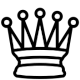
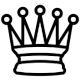
added in all pieces, bugfixed player movement, game now has pieces all making legal, basic moves. No en passant, castling at this time.

diff --git a/app.js b/app.js
@@ -1,11 +1,9 @@
-import {Knight, Pawn, Tile} from "./classes.js";
+import {King, Queen, Bishop, Rook, Knight, Pawn, Tile, legalMoves} from "./classes.js";
 
-/* use the index of these to move the pieces */
-export const rows = [8, 7, 6, 5, 4, 3, 2, 1];
+export const rows = [8, 7, 6, 5, 4, 3, 2, 1]; //used by pieces to find location
 export const cols = ['A', 'B', 'C', 'D', 'E', 'F', 'G', 'H'];
 export let playerMoves = [];
-let activePiece = null;
-let piece = null;
+export let activePiece = null;
 
 /* where the game actually happens, to be reflected in UI */
 export const gameBoard = new Array(8);
@@ -17,6 +15,30 @@ for(let i = 0; i < 8; i++) {
   })
   gameBoard[i] = array;
 }
+
+/* generating buttons for UI tiles */
+const userBoard = document.getElementById("board");
+userBoard.innerHTML = "";
+for(let i = 0; i < 8; i++) {
+  let alliance = i % 2 == 0 ? 'dark' : 'light';
+  cols.forEach((col) =>{
+    alliance = alliance === 'dark' ? 'light' : 'dark';
+    const tile = document.createElement('button');
+    tile.classList.add('tile');
+    tile.classList.add(alliance);
+    tile.id = "" + col + rows[i];
+    tile.textContent = "" + col + rows[i];
+
+    userBoard.appendChild(tile);
+  })
+}
+
+function resetTiles(){
+  legalMoves.forEach((tile) =>{
+    document.getElementById(tile.id).classList.remove('playerMove');
+  })
+}
+
 function createPieces(){
   for(let i = 0; i < 8; i++){
     const pawnDark = new Pawn(gameBoard[1][i], 'dark');
@@ -26,40 +48,42 @@ function createPieces(){
   }
   const knightDark01 = new Knight(gameBoard[0][1], 'dark');
   const knightDark06 = new Knight(gameBoard[0][6], 'dark');
-  gameBoard[0][1].piece = knightDark01;
-  gameBoard[0][6].piece = knightDark06;
   const knightLight71 = new Knight(gameBoard[7][1], 'light');
   const knightLight76 = new Knight(gameBoard[7][6], 'light');
+  gameBoard[0][1].piece = knightDark01;
+  gameBoard[0][6].piece = knightDark06;
   gameBoard[7][1].piece = knightLight71;
   gameBoard[7][6].piece = knightLight76;
+
+  const rookDark00 = new Rook(gameBoard[0][0], 'dark');
+  const rookDark07 = new Rook(gameBoard[0][7], 'dark');
+  const rookLight70 = new Rook(gameBoard[7][0], 'light');
+  const rookLight77 = new Rook(gameBoard[7][7], 'light');
+  gameBoard[0][0].piece = rookDark00;
+  gameBoard[0][7].piece = rookDark07;
+  gameBoard[7][0].piece = rookLight70;
+  gameBoard[7][7].piece = rookLight77;
+
+  const bishopDark02 = new Bishop(gameBoard[0][2], 'dark');
+  const bishopDark05 = new Bishop(gameBoard[0][5], 'dark');
+  const bishopDark72 = new Bishop(gameBoard[7][2], 'light');
+  const bishopDark75 = new Bishop(gameBoard[7][5], 'light');
+  gameBoard[0][2].piece = bishopDark02;
+  gameBoard[0][5].piece = bishopDark05;
+  gameBoard[7][2].piece = bishopDark72;
+  gameBoard[7][5].piece = bishopDark75;
+
+  const queenDark03 = new Queen(gameBoard[0][3], 'dark');
+  const queenLight73 = new Queen(gameBoard[7][3], 'light');
+  gameBoard[0][3].piece = queenDark03;
+  gameBoard[7][3].piece = queenLight73;
+
+  const kingDark04 = new King(gameBoard[0][4], 'dark');
+  const kingDark74 = new King(gameBoard[7][4], 'light');
+  gameBoard[0][4].piece = kingDark04;
+  gameBoard[7][4].piece = kingDark74;
 }
 createPieces();
-
-/* generating buttons for UI tiles */
-const userBoard = document.getElementById("board");
-function createBoard() {
-  document.getElementById('board').innerHTML = "";
-  for(let i = 0; i < 8; i++) {
-    let alliance = i % 2 == 0 ? 'dark' : 'light';
-    cols.forEach((col) =>{
-      alliance = alliance === 'dark' ? 'light' : 'dark';
-      const tile = document.createElement('button');
-      tile.classList.add('tile');
-      tile.classList.add(alliance);
-      tile.id = "" + col + rows[i];
-      tile.textContent = "" + col + rows[i];
-  
-      userBoard.appendChild(tile);
-    })
-  }
-}
-createBoard();
-
-function resetTiles(){
-  playerMoves.forEach((tile) =>{
-    document.getElementById(tile.id).classList.remove('playerMove');
-  })
-}
 
 /* renders the current game state */
 function updateUser(){
@@ -75,9 +99,8 @@ function updateUser(){
     }
   }
 }
-updateUser();
 
-/* selecting a piece */
+/* selecting a piece OR selecting a tile for movement */
 const tileButtons = document.getElementsByClassName('tile'); 
 function selectPiece(){
   for(let i = 0; i < tileButtons.length; i++) {
@@ -85,11 +108,9 @@ function selectPiece(){
     button.onclick = function() {
       const row = 8 - button.id.charAt(1);
       const col = cols.indexOf(button.id.charAt(0));
-      piece = gameBoard[row][col].piece;
-
-      //move the piece
-      if(activePiece != null && button.classList.contains('playerMove')) {
-        console.log('success');
+      let piece = gameBoard[row][col].piece;
+      
+      if(button.classList.contains('playerMove') && activePiece !== null) { //move piece
         activePiece.tile.piece = null;
         activePiece.tile = gameBoard[row][col];
         gameBoard[row][col].piece = activePiece;
@@ -97,20 +118,27 @@ function selectPiece(){
         piece = null;
         resetTiles();
         updateUser();
+        console.log(activePiece);
         return;
       }
-
-      //collect moves if piece is on tile
-      if(piece !== null) {
+      
+      activePiece = piece; //assign active piece after move operation, needs null protection for 1st action
+      
+      if(!button.classList.contains('playerMove') && piece === null) {
+        activePiece = null;
+        playerMoves = [];
+        resetTiles();
+      }
+      
+      if(piece !== null) { //collect moves
         resetTiles();
         playerMoves = []; 
         piece.getMoves();
         activePiece = piece;
-        console.log(playerMoves); //TODO delete when done testing
+        console.log(activePiece);
       }
     }
   }
   updateUser();
-  //TODO maintain piece
 }
 selectPiece();

diff --git a/classes.js b/classes.js
@@ -1,4 +1,4 @@
-import { rows, cols, gameBoard, playerMoves } from "./app.js";
+import { rows, cols, gameBoard, playerMoves, activePiece } from "./app.js";
 
 export class Tile {
   #row
@@ -27,10 +27,23 @@ export class Tile {
 }
 
 /* movement functions */
+export let legalMoves = [];
+
 function outOfBounds(x) {
   return (x > 7 || x < 0);
 }
-//TODO fix bug with piece.alliance to filter out same team
+
+function showLegalMoves() {
+  legalMoves = [];
+
+  legalMoves = playerMoves.filter(tile => {
+    return tile.piece == null || tile.piece.alliance !== activePiece.alliance;
+  })
+  legalMoves.forEach((tile) => {
+    document.getElementById(tile.id).classList.add('playerMove');
+  });
+}
+
 function testMove(row, col) {
   if (outOfBounds(row) || outOfBounds(col)) return;
     playerMoves.push(gameBoard[row][col]);
@@ -59,7 +72,7 @@ function moveRook(row, col) {
     if(gameBoard[row][left].piece != null) break;
   }
   for(let r = 1; r < 8; ++r){
-    const right = col + 1;
+    const right = col + r;
     if(outOfBounds(right)) break;
     
     playerMoves.push(gameBoard[row][right]);
@@ -75,6 +88,30 @@ function moveBishop(row, col) {
 
     playerMoves.push(gameBoard[down][right]);
     if(gameBoard[down][right].piece != null) break;
+  }
+  for(let dl = 1; dl < 8; ++dl) {
+    const down = row + dl;
+    const left = col - dl;
+    if(outOfBounds(down) || outOfBounds(left)) break;
+
+    playerMoves.push(gameBoard[down][left]);
+    if(gameBoard[down][left].piece != null) break;
+  }
+  for(let ur = 1; ur < 8; ++ur){
+    const up = row - ur;
+    const right = col + ur;
+    if(outOfBounds(up) || outOfBounds(right)) break;
+
+    playerMoves.push(gameBoard[up][right]);
+    if(gameBoard[up][right].piece != null) break;
+  }
+  for(let ul = 1; ul < 8; ++ ul){
+    const up = row - ul;
+    const left = col - ul;
+    if(outOfBounds(up) || outOfBounds(left)) break;
+
+    playerMoves.push(gameBoard[up][left]);
+    if(gameBoard[up][left].piece != null) break;
   }
 }
 
@@ -114,23 +151,19 @@ export class Pawn extends AnyPiece {
     const xPosition = rows.indexOf(this.tile.row);
     const direction = this.alliance == 'dark' ? 1 : -1;
     const newX = xPosition + direction;
+    if (outOfBounds(newX)) return;
 
-    if (outOfBounds(xPosition + direction)) return;
+    if(gameBoard[newX][yPosition].piece === null) //basic move 
+      testMove(newX, yPosition); 
     if (xPosition == 1 && this.alliance == 'dark') //first move dark pawns
       testMove(xPosition + 2, yPosition);
     if (xPosition == 6 && this.alliance == 'light') //first move light pawns
       testMove(xPosition - 2, yPosition);
-
-      testMove(newX, yPosition); //basic move
-    // check attack moves
     if (!outOfBounds(yPosition + 1) && gameBoard[newX][yPosition + 1].piece !== null)
-      testMove(newX, yPosition + 1);
-
+      testMove(newX, yPosition + 1); //attack move right
     if (!outOfBounds(yPosition - 1) && gameBoard[newX][yPosition - 1].piece !== null)
-      testMove(newX, yPosition - 1);
-    playerMoves.forEach((tile) => {
-      document.getElementById(tile.id).classList.add('playerMove');
-    });
+      testMove(newX, yPosition - 1); //attack move left
+    showLegalMoves();
   }
 }
 
@@ -154,8 +187,82 @@ export class Knight extends AnyPiece {
     testMove(xPosition -1, yPosition -2);
     testMove(xPosition -2, yPosition +1);
     testMove(xPosition -2, yPosition -1);
-    playerMoves.forEach((tile) => {
-      document.getElementById(tile.id).classList.add('playerMove');
-    });
+    showLegalMoves();
+  }
+}
+
+export class Rook extends AnyPiece {
+  #icon
+  constructor(tile, color) {
+    super(tile, color);
+    this.name = 'rook';
+    this.#icon = color === 'dark' ? 'asset/rookDark.png' : 'asset/rookLight.png';
+  }
+  get icon() { return this.#icon; }
+
+  getMoves() {
+    const yPosition = cols.indexOf(this.tile.col);
+    const xPosition = rows.indexOf(this.tile.row);
+    moveRook(xPosition, yPosition);
+    showLegalMoves();
+  }  
+}
+
+export class Bishop extends AnyPiece {
+  #icon
+  constructor(tile, color) {
+    super(tile, color);
+    this.name = 'bishop';
+    this.#icon = color === 'dark' ? 'asset/bishopDark.png' : 'asset/bishopLight.png';
+  }
+  get icon() { return this.#icon; }
+
+  getMoves() {
+    const yPosition = cols.indexOf(this.tile.col);
+    const xPosition = rows.indexOf(this.tile.row);
+    moveBishop(xPosition, yPosition);
+    showLegalMoves();
+  }
+}
+
+export class Queen extends AnyPiece {
+  #icon
+  constructor(tile, color) {
+    super(tile, color);
+    this.name = 'queen';
+    this.#icon = color === 'dark' ? 'asset/queenDark.png' : 'asset/queenLight.png';
+  }
+  get icon() { return this.#icon; }
+
+  getMoves() {
+    const yPosition = cols.indexOf(this.tile.col);
+    const xPosition = rows.indexOf(this.tile.row);
+    moveRook(xPosition, yPosition);
+    moveBishop(xPosition, yPosition);
+    showLegalMoves();
+  }
+}
+
+export class King extends AnyPiece {
+  #icon
+  constructor(tile, color) {
+    super(tile, color);
+    this.name = 'king';
+    this.#icon = color === 'dark' ? 'asset/kingDark.png' : 'asset/kingLight.png';
+  }
+  get icon() { return this.#icon; }
+
+  getMoves() {
+    const yPosition = cols.indexOf(this.tile.col);
+    const xPosition = rows.indexOf(this.tile.row);
+    testMove(xPosition +1, yPosition +1);
+    testMove(xPosition +1, yPosition -1);
+    testMove(xPosition +1, yPosition);
+    testMove(xPosition -1, yPosition);
+    testMove(xPosition -1, yPosition +1);
+    testMove(xPosition -1, yPosition -1);
+    testMove(xPosition, yPosition +1);
+    testMove(xPosition, yPosition -1);
+    showLegalMoves();
   }
 }

diff --git a/index.html b/index.html
@@ -9,6 +9,6 @@
   <script src="app.js" type="module" defer></script>
 </head>
 <body>
-  <div id="board" class="board"></div>
+  <div id="board"></div>
 </body>
 </html>

diff --git a/style.css b/style.css
@@ -1,5 +1,5 @@
 
-.board {
+#board {
   display: grid;
   margin: auto;
   padding: 5px;
